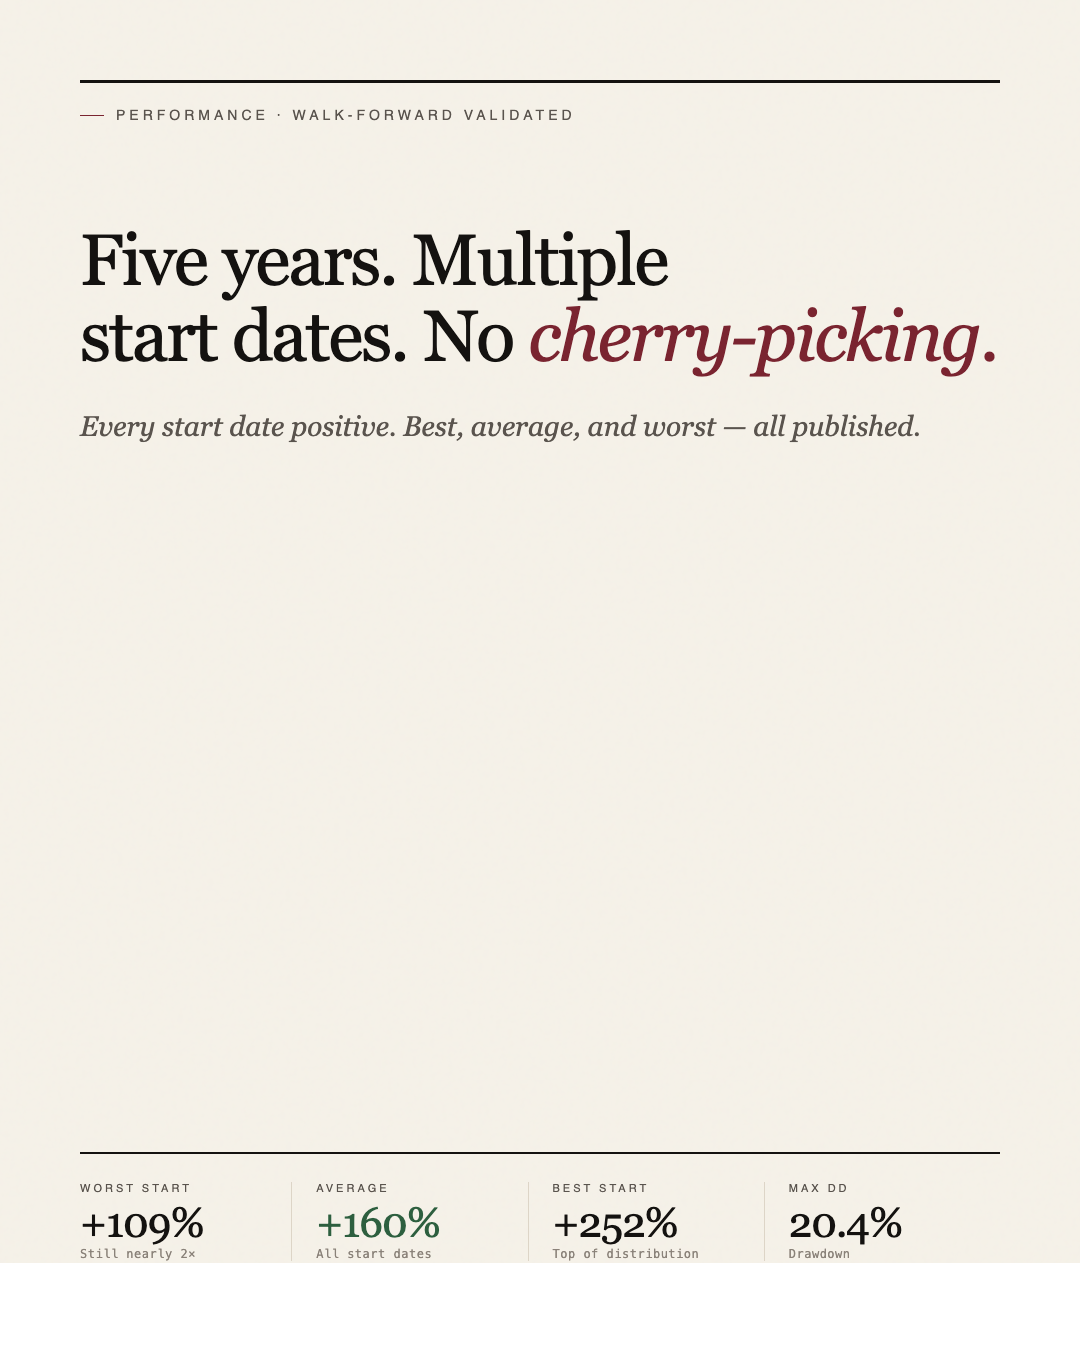
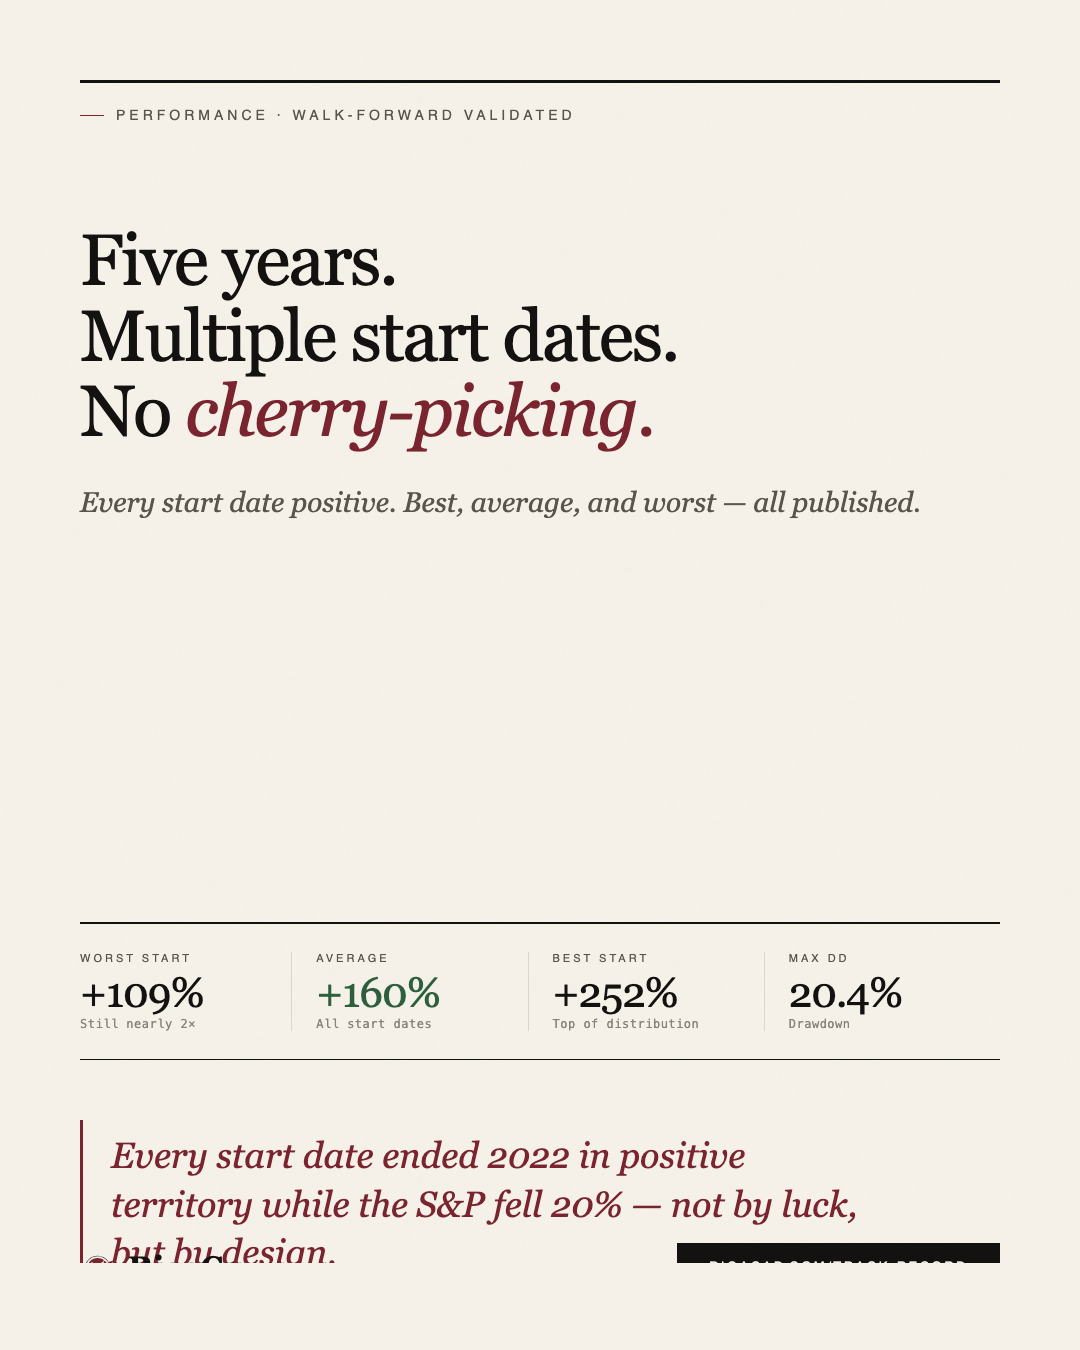
launch cards: line-break fixes + footer restored on all 5
Multiple visual fixes per Erik's review pass:

  - Card 2 headline now wraps three lines on purpose:
    "Five years.<br>Multiple start dates.<br>No cherry-picking."
    (was widow on "dates.")
  - Card 3 headline: "Three pieces of discipline.<br>All must align."
  - Card 3 Honesty pillar: <br> before "Where simulation favors
    results" so the public/honest framing reads as two complete
    thoughts.
  - Card 5 body: bold "RigaCap is an external discipline layer."
    on its own line with breathing room, then "The system tells you…"
    starts cleanly. Trailing "<br>when to do nothing." prevents
    the closing phrase from looking orphaned.

Render-script bug squashed: the previous regex extractor was
silently truncating each card at the first 3-deep div close
(usually inside the stats-strip), so the footer with the RigaCap
brand mark + CTA button was never reaching the rendered PNG. New
extractor walks divs by depth and matches at depth=0. Logo + CTA
now visible on all 5 cards.

Memory note updated with both the gallery-bg gotcha (already
captured) and the new card-extraction gotcha so future renders
don't repeat either failure mode.

diff --git a/design/brand/social-launch-cards-v2.html b/design/brand/social-launch-cards-v2.html
@@ -85,7 +85,7 @@
     <div class="top-rule">
       <div class="kicker">Performance · Walk-Forward Validated</div>
     </div>
-    <h1 class="headline">Five years. Multiple start&nbsp;dates. No&nbsp;<em>cherry-picking.</em></h1>
+    <h1 class="headline">Five years.<br>Multiple start dates.<br>No&nbsp;<em>cherry-picking.</em></h1>
     <p class="subhead">Every start date positive. Best, average, and worst — all&nbsp;published.</p>
     <div class="spacer"></div>
     <div class="stats-strip">
@@ -109,7 +109,7 @@
     <div class="top-rule">
       <div class="kicker">The Edge · Three-Factor Ensemble</div>
     </div>
-    <h1 class="headline">Three pieces of discipline. All must&nbsp;<em>align.</em></h1>
+    <h1 class="headline">Three pieces of discipline.<br>All must&nbsp;<em>align.</em></h1>
     <div class="pillars">
       <div class="pillar">
         <div class="pillar-num">Ⅰ / DISCIPLINE</div>
@@ -124,7 +124,7 @@
       <div class="pillar">
         <div class="pillar-num">Ⅲ / HONESTY</div>
         <div class="pillar-title">Published methodology.</div>
-        <div class="pillar-desc">Walk-forward process, assumptions, and biases — all public. Where simulation favors results, that's&nbsp;called&nbsp;out&nbsp;explicitly.</div>
+        <div class="pillar-desc">Walk-forward process, assumptions, and biases — all public.<br>Where simulation favors results, that's&nbsp;called&nbsp;out&nbsp;explicitly.</div>
       </div>
     </div>
     <div class="spacer"></div>
@@ -173,7 +173,9 @@
       You can find signals anywhere. What's harder to find is the discipline to follow them — to sit in cash when nothing is working, to honor stops without second-guessing, and to not double down&nbsp;on&nbsp;losers.
     </p>
     <p class="body-text">
-      <strong>RigaCap is an external discipline layer.</strong> The system tells you when to enter, when to exit, and — just as importantly — when to&nbsp;do&nbsp;nothing.
+      <strong>RigaCap is an external discipline layer.</strong>
+      <br><br>
+      The system tells you when to enter, when to exit, and — just as importantly —<br>when to do nothing.
     </p>
     <div class="spacer"></div>
     <div class="stats-strip">
